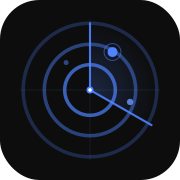
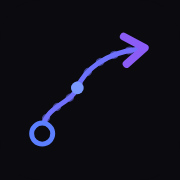
Rename Job Radar to Dispatch; add PEC-04 baseline report
- App name, header mark, sign-in screen, manifest and iOS title now "Dispatch"
- New route/arrow icon (SVG + 512/192/180 PNG) replaces the radar icon
- docs/pec/PEC-04_Dispatch_Baseline_2026-10-28.md: PEC v0.2 baseline
  (snapshot, evidence coverage, product metrics, data-capture spec,
  outlook, replication, gaps, improvements, archive)

Claude-Session: https://claude.ai/code/session_011akMvqYsi8iktURm2cYTfN

diff --git a/index.html b/index.html
@@ -3,7 +3,7 @@
 <head>
 <meta charset="UTF-8">
 <meta name="viewport" content="width=device-width, initial-scale=1.0, viewport-fit=cover">
-<title>Job Radar · Jorge Aguilar</title>
+<title>Dispatch · Jorge Aguilar</title>
 <!-- PWA -->
 <link rel="manifest" href="manifest.json">
 <meta name="theme-color" content="#4F83FF">
@@ -11,7 +11,7 @@
 <!-- iOS home screen -->
 <meta name="apple-mobile-web-app-capable" content="yes">
 <meta name="apple-mobile-web-app-status-bar-style" content="black-translucent">
-<meta name="apple-mobile-web-app-title" content="Job Radar">
+<meta name="apple-mobile-web-app-title" content="Dispatch">
 <link rel="apple-touch-icon" href="apple-touch-icon.png">
 <link rel="preconnect" href="https://fonts.googleapis.com">
 <link rel="preconnect" href="https://fonts.gstatic.com" crossorigin>
@@ -648,8 +648,8 @@ textarea { resize: vertical; min-height: 70px; line-height: 1.5; }
 
 <!-- SIGN-IN -->
 <div id="signin-screen">
-  <div class="signin-logo">🎯</div>
-  <div class="signin-title">Job Radar</div>
+  <div class="signin-logo" style="font-weight:800;color:#fff">D</div>
+  <div class="signin-title">Dispatch</div>
   <div class="signin-sub">Jorge Aguilar Salas · Berlin 2026<br>Your personal application tracker</div>
   <button class="signin-btn" onclick="requestToken()">
     <svg viewBox="0 0 24 24" fill="none">
@@ -667,8 +667,8 @@ textarea { resize: vertical; min-height: 70px; line-height: 1.5; }
 <div id="app">
   <header>
     <div class="header-brand">
-      <div class="header-brand-mark">JR</div>
-      <div class="header-title">Job Radar</div>
+      <div class="header-brand-mark">D</div>
+      <div class="header-title">Dispatch</div>
     </div>
     <button class="user-avatar-btn" id="user-avatar-btn" onclick="openProfileSheet()" title="Profile">JA</button>
   </header>

diff --git a/docs/pec/PEC-04_Dispatch_Baseline_2026-10-28.md b/docs/pec/PEC-04_Dispatch_Baseline_2026-10-28.md
@@ -1,0 +1,174 @@
+# PEC-04 — Dispatch (formerly Job Radar) · Baseline
+
+| Field | Value |
+|---|---|
+| PEC ID / version | PEC-04 · protocol PEC v0.2 · report v1.0 |
+| Cut-off | 2026-10-28 11:20 Europe/Berlin |
+| Commit evaluated | `0184b2e` (main) — diagnostic baseline. The rename commit that archives this file is recorded in §8 |
+| Prepared by | Claude (reporting role), read-only diagnostic + changes explicitly authorised by Jorge on 28.10 (listed in §1.3) |
+| GitHub copy | `docs/pec/PEC-04_Dispatch_Baseline_2026-10-28.md` in `Jorgeaguilarsalas/job-radar` |
+| Drive copy | `PROJECTS / Dispatch / PEC / PEC-04_Dispatch_Baseline_2026-10-28` |
+
+---
+
+## 1. Project Snapshot
+
+### 1.1 Identity
+- **Name:** Dispatch (renamed from "Job Radar" on 28.10.2026 — the system no longer detects vacancies; it dispatches and tracks applications).
+- **Purpose (stated by Jorge, 28.10):** continuously improve the job search through analysis and methodology, and through document creation. Every method and specification is written into the protocol; as much data as possible is captured to improve the system and its results.
+- **Components today:**
+  1. **App** — static PWA (single `index.html`) on GitHub Pages, Google Sign-In, reads/writes the Google Sheet. Tabs: Home · Jobs · Insights · Docs · Report.
+  2. **Data store** — Google Sheet `1vphtmlNtnpN0f8phSdmwOMa8pG4Eivfl9ryBv9V8HQo` (Sheet1, columns A–Q used by the app; R `jd_url` present but unused).
+  3. **Method layer** — JD Analysis Protocol (8 dimensions, 0–2 each, max 16), CV template, mandatory application workflow (JD → CV → Drive → Sheet). Stored in Claude project memory; a v2.0 text export exists in Drive.
+  4. **Document layer** — per-application JD Google Doc + CV PDF (+ cover letter / form answers) in the Drive applications folder.
+  5. **Analysis** — scheduled task "Job Radar – Weekly Analysis" (Mondays 07:43 Berlin, first run 2026-11-02).
+- **Repository:** `Jorgeaguilarsalas/job-radar`, single branch `main`, public. 15 commits (26.10–28.10 incl. the rename).
+- **Live URL:** https://jorgeaguilarsalas.github.io/job-radar (URL unchanged by the rename).
+- **Drive:** `CARRERA — Job Applications` (Setup Protocol + stale index.html copy, 26.10) · applications folder (Sheet, JD docs, CV PDFs) · `PROJECTS / Dispatch / PEC` (this report).
+
+### 1.2 Status ladder (PLANNED → BUILT → DEPLOYED → ACCEPTED → RELEASED)
+
+| Item | Status | Evidence |
+|---|---|---|
+| Core tracker (Jobs, Docs, Report, PDF export) | DEPLOYED · in daily use | commits `ac6cb78`…`82a34dc`; used daily by Jorge |
+| Insights tab (funnel, KPIs) | DEPLOYED | `4252498` |
+| Bottom nav + profile sheet | DEPLOYED | `25e4885` |
+| Home tab + per-status lists + follow-up filter | DEPLOYED · informally accepted (Jorge: "listo", 28.10) | `0184b2e` |
+| Rename to Dispatch + new icon | BUILT → DEPLOYED with this archive commit | §8 |
+| Formal acceptance criteria for any item | MISSING | no acceptance record exists |
+
+- **Last accepted milestone:** none formally defined. The Home tab is the only item with an explicit user confirmation.
+- **Next milestone / acceptance criteria:** not defined (MISSING). Proposed in §4.
+- **Original target date / forecast:** none exist. No delay can be stated.
+
+### 1.3 Changes made on 28.10 with Jorge's explicit authorisation
+1. Home tab shipped (`0184b2e`).
+2. **Parallel system removed:** a second "Job Radar" (claude.ai artifact with its own database) was deleted. Before deletion, its 20 records were compared with the Sheet: 4 already existed, **16 were migrated** to the Sheet (rows 204–219), incl. one already-sent application (Shiftmove, PM B2B SaaS, with CV + cover-letter links; send date estimated = 27.10, flagged `datumGeschaetzt=TRUE`).
+3. **Both daily vacancy-search tasks deleted** ("Jobradar" 07:00 weekdays → wrote to the deleted artifact; "Job Radar – Daily Recommendations" 07:30 → wrote to the Sheet with a wrong 60–80K salary band). Jorge does not want vacancy alerts.
+4. Weekly Analysis kept (Jorge: needed to update vacancy evaluation).
+5. Rename to Dispatch.
+
+---
+
+## 2. Evidence Coverage
+
+| Dimension | Status | Source & location | Last update | Missing | Minimal adjustment |
+|---|---|---|---|---|---|
+| Time & effort | PARTIAL | Commit timestamps (git log); chat sessions | 28.10 | Human hours, agent run time, waits — none recorded | Log session time per work block (existing Portfolio time-tracking sheet pattern) |
+| Errors & rework | PARTIAL | git log (dedup removed `dbe3938` then restored `741cf9e`; 3 redesigns in 2 days); session incidents 27–28.10: invalid status `offen` hid a row; duplicate row appended then cleared; Sheets API per-minute quota errors (reads & writes); 1-byte-corrupt Drive PDF upload; parallel data store | 28.10 | No incident log | `docs/INCIDENTS.md` (one line per incident: date, cause, fix) |
+| Costs | PARTIAL | GitHub Pages, Sheets API, Drive: no cost (measured: free tier). Scheduled tasks run on Claude usage | 28.10 | AI usage per task/run not attributed | Record run count per task; attribute usage when the platform exposes it |
+| Quality | MISSING | No tests, no CI beyond Pages build, no acceptance criteria. Browser test of Home (sample data, mobile+desktop, 0 JS errors) run 28.10 but not archived | 28.10 | Test evidence, acceptance records | Acceptance line per change in CHANGELOG |
+| Decisions | PARTIAL | Setup Protocol (architecture, security); commit messages; this report §1.3 | 28.10 | No ADRs | Short ADRs in `docs/adr/` for: single data store, no alerts, rename |
+| Replicability | PARTIAL | Drive "Job Radar — Setup Protocol" (6 install steps) | 26.10 | Outdated: no `espera`, no Home, no `jd_url`, old name | Move setup guide into repo README; Drive links to it |
+| Results | PARTIAL | Insights tab; Drive "Job Radar — Análisis de Conversión (Oct 2026)" (one-off) | 26.10 | No recurring measurement until Weekly Analysis runs (02.11) | Data-capture spec (§3.2) |
+
+---
+
+## 3. Product Performance
+
+### 3.1 Metric inventory
+Vacancy detection was removed on 28.10; detection metrics are therefore NOT APPLICABLE going forward. Vacancies now enter only when Jorge brings a JD.
+
+| Metric | Status |
+|---|---|
+| Vacancies evaluated (JDs run through the protocol) | NOT CAPTURED — evaluations live only in chat; SKIP decisions are not recorded |
+| Vacancies relevant to profile (score / recommendation) | PARTIAL — score in free-text `notiz` for some rows; not per dimension, not structured |
+| Precision of evaluation (score vs outcome) | UNKNOWN — no link between protocol score and response/interview |
+| Duplicates | PARTIAL — 48 duplicate IDs in Sheet (app hides them; data not clean) |
+| Listing freshness / link validity | NOT IMPLEMENTED — link stored in a minority of rows |
+| Time from publication to detection | NOT APPLICABLE (no detection) |
+| Time saved | UNKNOWN |
+| Fit-explanation quality | PARTIAL — explanations in chat and JD docs, not evaluated |
+| Applications & outcomes | IMPLEMENTED — status, dates, Insights funnel, Jobcenter report |
+| Document production (CV/JD per application) | PARTIAL — complete for 27.10 onward (JD doc + CV PDF + Sheet link); gaps before (Knowunity & SafeDriver CVs, 4 JDs not stored) |
+
+**Snapshot (Sheet, before migration, 28.10):** 202 rows with ID, 154 unique. Unique statuses: absage 139 · verschickt 10 · pruefen 4 · espera 1 · interview 0 (interviews that ended in rejection were closed as `absage`, so interview history is lost in the status field). After migration: +16 rows (15 `pruefen`, 1 `verschickt`).
+
+### 3.2 Data-capture specification (new — implements Jorge's 28.10 instruction)
+Goal: every application produces enough structured data to learn which roles, channels, documents and messages convert. Captured in the existing Sheet without breaking the app (the app reads A–Q only; extra columns are safe).
+
+**Per JD evaluated (including SKIP/REVIEW not pursued)** — one row, status `verworfen` if not pursued:
+- protocol score total and D1–D8, recommendation, hard filter fired (if any), CV cluster
+- salary stated / estimated; applicants count; posting age; source; contact identified (Y/N)
+
+**Per application sent:**
+- channel (portal / email / LinkedIn / direct to founder or recruiter), direct-contact message sent (Y/N, date)
+- salary expectation entered
+- document set: CV cluster + language + CV file link, cover letter (Y/N), form answers (Y/N), motivation note (Y/N)
+- referral / boomerang / 1st-degree contact (Y/N)
+
+**Per outcome event (append, never overwrite):**
+- date of first response, response type (rejection / screen / interview / ghosted after N days)
+- interview rounds reached (count) and stage of exit
+- rejection reason if given; feedback received (Y/N)
+
+**Derived weekly (Weekly Analysis):** conversion by score band, by cluster, by channel, by direct-contact, by salary band, by language; median days to first response; ghost rate after 14 and 30 days.
+
+Until new columns are approved, the same fields are appended to `notiz` as one machine-readable line:
+`DSP|score=14|d=2,2,2,1,2,2,2,1|rec=APPLY_P|cluster=HeadOps|sal_ask=—|channel=portal|direct=Y|docs=CV-EN,note|`
+
+---
+
+## 4. Completion Outlook
+
+1. **To close the next milestone ("M1 — Single source of truth & measurable pipeline", proposed):**
+   - Data model: add structured columns per §3.2 (or adopt the `DSP|` line) — PLANNED
+   - Clean the 48 duplicate IDs in the Sheet (keep newest) — PLANNED
+   - Restore interview history (`interview` / rounds) for closed processes — PLANNED
+   - Point Weekly Analysis at the JD protocol (it still targets the deleted daily tasks and writes to a memory file that does not exist) — BLOCKED (see 2)
+   - README + CHANGELOG with acceptance lines — PLANNED
+   - Acceptance criteria (proposal): app shows every Sheet row once; every application from M1 on has score, cluster, channel and docs captured; Weekly Analysis produces the conversion cuts in §3.2.
+2. **Blocked:** editing scheduled tasks from this session is denied by the platform's safety layer (attempted 28.10). Needs Jorge to approve or edit the task himself.
+3. **Critical dependencies:** Google OAuth client (Cloud project), Sheets API per-minute quota (caused failed writes on 27–28.10), GitHub Pages, Drive editor access of the work account to the personal-account folders.
+4. **Baseline date / estimate:** none exist. No percentages or delays stated.
+5. **Could extend the project:** schema change + backfill of historical rows; data cleaning; repeated UI iterations without acceptance criteria.
+6. **Detectable daily:** GitHub commits & Pages builds; Sheet `modifiedTime` and row count; Drive files created in the applications folder; Weekly Analysis `last_run`.
+7. **Executed tests not archived:** yes — browser tests of 28.10.
+8. **Stale sources that could mislead an analyst:**
+   - Drive `job-radar — index.html` (26.10) — 15 commits behind; do not use.
+   - Drive "Job Radar — Setup Protocol" (26.10) — outdated statuses, tabs, name.
+   - Drive "Análisis de Conversión" — cites "250+ vehicles" at Nexio, not supported by CV/profile facts; treat as unverified.
+   - Weekly Analysis prompt — describes daily tasks that no longer exist; targets memory file `areas/job-search.md` that does not exist.
+   - "Stellenbeschreibungen — Aktive Bewerbungen" (26.10) — 4 JDs marked pending.
+
+---
+
+## 5. Replication Readiness
+
+- **Reusable (built):** single-file PWA; Sheet schema A–Q; browser OAuth flow; JD Analysis Protocol structure (filters, 8 dimensions, interpretation, clusters); CV generator pattern (ReportLab, ~6 KB PDF, Drive-uploadable); application workflow checklist; Jobcenter PDF report.
+- **Per-user configuration:** `SPREADSHEET_ID`, `CLIENT_ID`, `OWNER_NAME`, hard-coded `INTERESTED_IDS` list in code; OAuth authorised origin; Sheet copy; experience portfolio, hard filters, salary band and clusters in the protocol; CV fixed elements; Drive folder IDs; Kundennummer (localStorage).
+- **Repeatable work:** fork repo → enable Pages → create OAuth client → copy Sheet header → set IDs → write user's protocol §A–§C and CV template → create Drive folders.
+- **Unresolved:** no multi-tenant architecture (one fork + Sheet per user); public repo contains personal identifiers (no secrets); per-user cost unknown; no tests; protocol content is Jorge-specific and lives in Claude memory, not in the repo.
+- **Comparison baseline for user #2:** not measurable yet — effort and cost of build #1 were not recorded (§2).
+
+---
+
+## 6. Evidence Gaps
+
+| Known loss pattern | Present in Dispatch? | Minimal fix |
+|---|---|---|
+| Execution logs not kept | Yes — task runs only push a notification | Weekly Analysis writes its summary to a Drive doc / Sheet tab each run |
+| Tests verified but not archived | Yes | Acceptance line in CHANGELOG with test date |
+| Drive outdated vs GitHub | Yes — index.html copy and Setup Protocol | Replace copies with links to the repo |
+| No initial estimates / rework time | Yes | Estimate + actual per work block |
+| Costs not attributed | Yes | Run count per task |
+| Additional: decisions & evaluations only in chat | Yes — JD evaluations and SKIPs vanish | §3.2 capture rule |
+
+---
+
+## 7. Three Minimal Improvements (need Jorge's authorisation)
+
+1. **Adopt the §3.2 data capture** (start with the `DSP|` line in `notiz` today; columns later) — makes every future application a data point.
+2. **Re-point Weekly Analysis** to compute the §3.2 cuts and to write results into the JD protocol's evidence section + a Drive "Dispatch — Weekly Analysis" log.
+3. **Clean the data once:** remove 48 duplicate IDs; mark processes that reached interviews (rounds) so conversion can be measured.
+
+---
+
+## 8. Archive Status
+
+| Copy | Location | Status |
+|---|---|---|
+| GitHub | `docs/pec/PEC-04_Dispatch_Baseline_2026-10-28.md` — see commit link in the Drive copy | recorded at publish time |
+| Google Drive | `PROJECTS / Dispatch / PEC / PEC-04_Dispatch_Baseline_2026-10-28` | recorded at publish time |
+
+Sync status and URLs are verified after both writes and stated in the chat reply and in the Drive copy's header.
